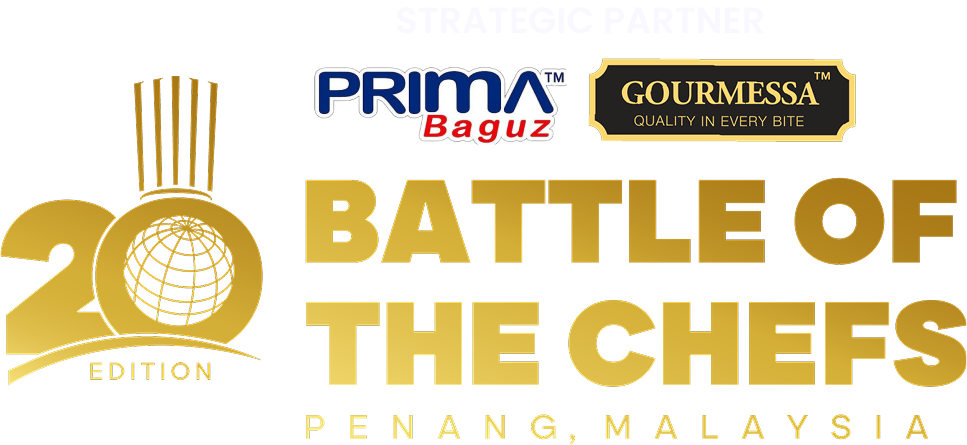
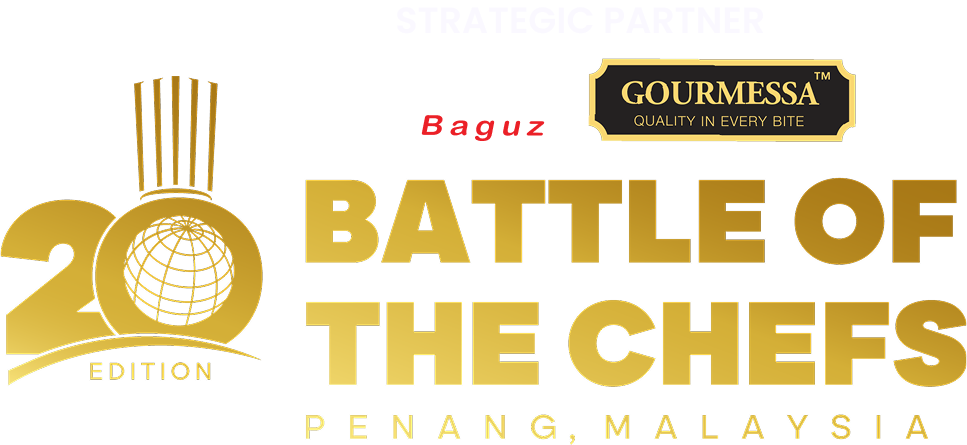
client updation done

Changed region(s): [[0.3102, 0.1461, 0.5895, 0.3213]]

diff --git a/index.html b/index.html
@@ -26,7 +26,7 @@
       <div class="content-wrapper">
         <div class="pre-header">
           <div class="pre-header__logo">
-            <a href="index.html"><img src="assets/images/prima-Baguz-logo.png"></a>
+            <a href="index.html"><img src="assets/images/prima-Baguz-logo.svg"></a>
           </div>
           <div class="hamburger" id="hamburger">
             <span></span>
@@ -660,7 +660,7 @@
               <div>
                 <h3 class="pre-footer__heading">Sponsored By</h3>
                 <div class="pre-footer__sponsors">
-                  <img class="pre-footer__sponsor-logo" src="assets/images/Prima-Baguz-Logo.png" alt="Prima Baguz">
+                  <img class="pre-footer__sponsor-logo" src="assets/images/Prima-Baguz-Logo.svg" alt="Prima Baguz">
                   <img class="pre-footer__sponsor-logo" src="assets/images/Gourmessa-Logo.svg" alt="Gourmessa">
                 </div>
               </div>
